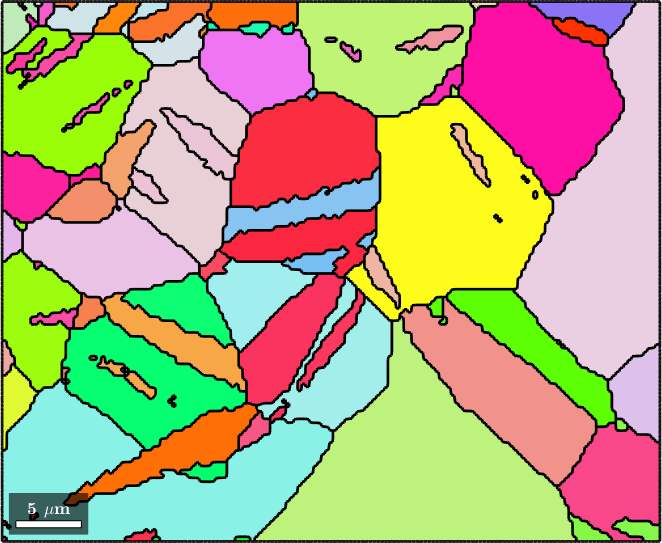
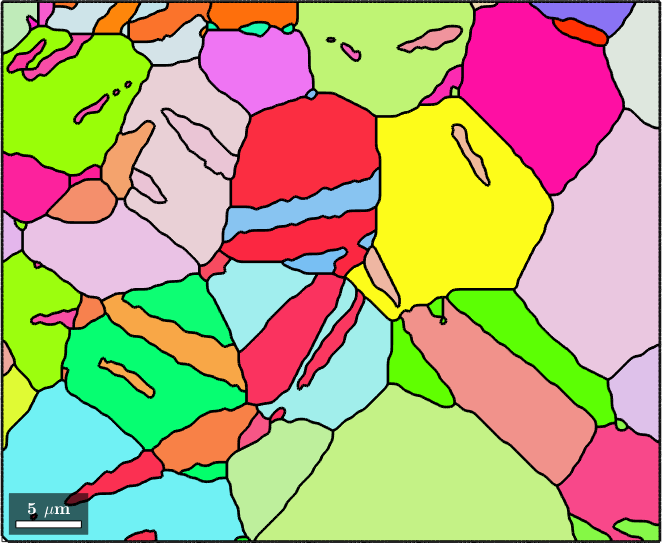
docu

diff --git a/pages/documentation_matlab/BoundaryProperties.html b/pages/documentation_matlab/BoundaryProperties.html
@@ -30,10 +30,11 @@ mtexdata twins silent
 ebsd.prop = rmfield(ebsd.prop,{'error','bands'});
 
 % detect grains
-[grains,ebsd.grainId,ebsd.mis2mean] = calcGrains(ebsd('indexed'));
+[grains,ebsd.grainId,ebsd.mis2mean] = ...
+  calcGrains(ebsd('indexed'),'angle',10*degree,'minPixel',3);
 
 % smooth them
-grains = grains.smooth;
+grains = grains.smooth(5);
 
 % visualize the grains
 plot(grains,grains.meanOrientation)
@@ -139,7 +140,12 @@ hold off
                </p>
          </td>
          <td>
-               <p/>
+               <p>
+                  <tt>triplePoints</tt>
+               </p>
+         </td>
+         <td>
+               <p>list of all triple points</p>
          </td>
       </tr>
       <tr>
@@ -164,18 +170,18 @@ hold off
 </p>
 <p>The first three properties refer to \(N \times 2\) matrices where \(N\) is the number of boundary segments. Each row of these matrices contains the information about the EBSD data, and grain data on both sides of the grain boundary. To illustrate this consider the grain boundary of one specific grain</p>
 {% highlight matlab %}
-gB8 = grains(8).boundary
+gB4 = grains(4).boundary
 {% endhighlight %}
 
 {% highlight plaintext %}
-gB8 = grainBoundary
+gB4 = grainBoundary
  
  Segments  length  mineral 1  mineral 2
-        8    2 µm  Magnesium  Magnesium
+        8  1.3 µm  Magnesium  Magnesium
 {% endhighlight %}
-<p>This boundary consists of 6 segments and hence ebsdId forms a 8x2 matrix</p>
+<p>This boundary consists of 8 segments and hence ebsdId forms a 8x2 matrix</p>
 {% highlight matlab %}
-gB8.ebsdId
+gB4.ebsdId
 {% endhighlight %}
 
 {% highlight plaintext %}
@@ -191,7 +197,7 @@ ans =
 {% endhighlight %}
 <p>It is important to understand that the <b>id</b> is not necessarily the same as the index in the list. In order to index an variable of type EBSD by id and not by index the following syntax has to be used</p>
 {% highlight matlab %}
-ebsd('id',gB8.ebsdId)
+ebsd('id',gB4.ebsdId)
 {% endhighlight %}
 
 {% highlight plaintext %}
@@ -200,15 +206,23 @@ ans = EBSD (y↑→x)
  Phase  Orientations    Mineral         Color  Symmetry  Crystal reference frame
      1     16 (100%)  Magnesium  LightSkyBlue     6/mmm       X||a*, Y||b, Z||c*
  
-        Id   Phase             orientation        bc        bs       mad   grainId               mis2mean
- 1010 1177     1 1   (113.7°,15.5°,219.3°)   164 168   158 171   0.5 0.3      8 21   (217.3°,0.2°,142.9°)
- 1010 1009     1 1   (113.7°,15.5°,219.3°)   164 156   158 160   0.5 0.4      8 21   (217.3°,0.2°,142.9°)
-   843 842     1 1   (115.3°,15.6°,218.2°)   170 167   176 170   0.7 0.5      8 21    (55.9°,0.2°,303.8°)
-   843 676     1 1   (115.3°,15.6°,218.2°)   170 176   176 196   0.7 0.5      8 21    (55.9°,0.2°,303.8°)
-   843 844     1 1   (115.3°,15.6°,218.2°)   170 174   176 197   0.7 0.3      8 21    (55.9°,0.2°,303.8°)
-  1011 844     1 1   (114.7°,15.7°,218.5°)   182 174   174 197   0.5 0.3      8 21    (339.9°,0.1°,20.2°)
- 1011 1012     1 1   (114.7°,15.7°,218.5°)   182 176   174 168   0.5 0.4      8 21    (339.9°,0.1°,20.2°)
- 1011 1178     1 1   (114.7°,15.7°,218.5°)   182 174   174 181   0.5 0.5      8 21    (339.9°,0.1°,20.2°)
+   Id   Phase             orientation    bc    bs   mad   grainId               mis2mean
+ 1010       1   (113.7°,15.5°,219.3°)   164   158   0.5         4   (217.3°,0.2°,142.9°)
+ 1010       1   (113.7°,15.5°,219.3°)   164   158   0.5         4   (217.3°,0.2°,142.9°)
+  843       1   (115.3°,15.6°,218.2°)   170   176   0.7         4    (55.9°,0.2°,303.8°)
+  843       1   (115.3°,15.6°,218.2°)   170   176   0.7         4    (55.9°,0.2°,303.8°)
+  843       1   (115.3°,15.6°,218.2°)   170   176   0.7         4    (55.9°,0.2°,303.8°)
+ 1011       1   (114.7°,15.7°,218.5°)   182   174   0.5         4    (339.9°,0.1°,20.2°)
+ 1011       1   (114.7°,15.7°,218.5°)   182   174   0.5         4    (339.9°,0.1°,20.2°)
+ 1011       1   (114.7°,15.7°,218.5°)   182   174   0.5         4    (339.9°,0.1°,20.2°)
+ 1177       1     (4.5°,80.7°,195.2°)   168   171   0.3        15     (4.8°,0.3°,355.2°)
+ 1009       1     (4.6°,80.7°,195.4°)   156   160   0.4        15    (24.6°,0.3°,335.2°)
+  842       1     (4.9°,80.4°,195.2°)   167   170   0.5        15        (83°,0.5°,277°)
+  676       1     (4.9°,80.4°,195.2°)   176   196   0.5        15        (83°,0.5°,277°)
+  844       1     (4.4°,80.5°,195.1°)   174   197   0.3        15     (359.6°,0.1°,0.5°)
+  844       1     (4.4°,80.5°,195.1°)   174   197   0.3        15     (359.6°,0.1°,0.5°)
+ 1012       1     (4.4°,80.5°,195.2°)   176   168   0.4        15    (14.3°,0.1°,345.8°)
+ 1178       1     (4.7°,80.8°,195.4°)   174   181   0.5        15      (21.9°,0.4°,338°)
  Scan unit : um
  X x Y x Z : [1.8, 2.7] x [1.2, 2.1] x [0, 0]
  Normal vector: (0,0,1)
@@ -216,25 +230,25 @@ ans = EBSD (y↑→x)
 {% endhighlight %}
 <p>Similarly</p>
 {% highlight matlab %}
-gB8.grainId
+gB4.grainId
 {% endhighlight %}
 
 {% highlight plaintext %}
 ans =
-     8    21
-     8    21
-     8    21
-     8    21
-     8    21
-     8    21
-     8    21
-     8    21
+     4    15
+     4    15
+     4    15
+     4    15
+     4    15
+     4    15
+     4    15
+     4    15
 {% endhighlight %}
-<p>results in 9x2 matrix indicating that grain 8 is an inclusion of grain 21.</p>
+<p>results in 8x2 matrix indicating that grain 4 is a tiny inclusion of grain 15.</p>
 {% highlight matlab %}
-plot(grains(8),'FaceColor','DarkBlue','micronbar','off')
+plot(grains(4),'FaceColor','DarkBlue','micronbar','off')
 hold on
-plot(grains(21),'FaceColor','LightCoral')
+plot(grains(15),'FaceColor','LightCoral')
 hold off
 {% endhighlight %}
 <center>
@@ -243,9 +257,9 @@ hold off
 <h2 id="7">Grain boundary misorientations</h2>
 <p>The grain boundary misorientation defined as the misorientation between the orientations corresponding to ids in first and second column of ebsdId, i.e. following two commands should give the same result</p>
 {% highlight matlab %}
-gB8(1).misorientation
+gB4(1).misorientation
 
-inv(ebsd('id',gB8.ebsdId(1,2)).orientations) .* ebsd('id',gB8.ebsdId(1,1)).orientations
+inv(ebsd('id',gB4.ebsdId(1,2)).orientations) .* ebsd('id',gB4.ebsdId(1,1)).orientations
 {% endhighlight %}
 
 {% highlight plaintext %}
@@ -273,7 +287,7 @@ gB_Mg = gB('Magnesium','Magnesium')
 gB_Mg = grainBoundary
  
  Segments  length  mineral 1  mineral 2
-     3219  837 µm  Magnesium  Magnesium
+     3163  724 µm  Magnesium  Magnesium
 {% endhighlight %}
 <p>Then the misorientation angles can be plotted by</p>
 {% highlight matlab %}
@@ -296,7 +310,7 @@ plot(gB_Mg,angle(gB_Mg.direction,axes),'linewidth',4)
 
 {% highlight plaintext %}
 axes = vector3d (y↑→x)
- size: 3219 x 1
+ size: 3163 x 1
  antipodal: true
 {% endhighlight %}
 <center>
@@ -319,21 +333,54 @@ sum(gB_Mg.segLength)
 
 {% highlight plaintext %}
 ans =
-       837.47
+  723.9185
 {% endhighlight %}
 <h2 id="14">Connected components</h2>
-<p>TODO: explain this in more detail</p>
+<p>When analyzing the topology of boundary networks connected components of certain subsets of boundaries are of interest. Using the commands|gB.componentId| and <code class="language-plaintext highlighter-rouge">gB.componentSize</code> we are able to separate the boundary network into groups of connected components and analyze them separately. We do so below at the example of twin boundaries which we first colorize according to length.</p>
 {% highlight matlab %}
-components = unique(gB.componentId);
-for cId = components.'
-  plot(gB(gB.componentId == cId),'lineColor',ind2color(cId),...
-    'micronbar','off','lineWidth',4,'displayName',num2str(cId))
-  hold on
-end
+CS = ebsd.CS;
+twinning = orientation.map(Miller(1,-1,0,1,CS),Miller(1,0,-1,-1,CS),...
+  Miller(0,1,-1,1,CS,'uvw'),Miller(1,-1,0,1,CS,'uvw'))
+
+gBTwin = gB(gB.isTwinning(twinning));
+
+plot(grains,grains.meanOrientation,'faceAlpha',0.25)
+
+hold on
+plot(gBTwin,gBTwin.componentSize,'lineWidth',4)
 hold off
+mtexColorbar
+{% endhighlight %}
+
+{% highlight plaintext %}
+twinning = misorientation (Magnesium → Magnesium)
+ 
+ (10-1-1) || (01-11)   [01-11] || [1-101]
 {% endhighlight %}
 <center>
 {% include inline_image.html file="BoundaryProperties_06.png" %}
+</center>
+<p>Next we compute how curvy each twin boundary component is, by dividing it spatial extension by its total length. This measure has proven to be useful to tell apart misindexing due to pseudosymmetries and true twin boundaries.</p>
+{% highlight matlab %}
+numComponents = max(gBTwin.componentId);
+xmax = accumarray(gBTwin.componentId,gBTwin.midPoint.x,[numComponents,1],@max);
+ymax = accumarray(gBTwin.componentId,gBTwin.midPoint.y,[numComponents,1],@max);
+xmin = accumarray(gBTwin.componentId,gBTwin.midPoint.x,[numComponents,1],@min);
+ymin = accumarray(gBTwin.componentId,gBTwin.midPoint.y,[numComponents,1],@min);
+
+ext = sqrt((xmax-xmin).^2+(ymax-ymin).^2);
+len = accumarray(gBTwin.componentId,gBTwin.segLength,[numComponents,1],@sum);
+value = ext ./ len;
+
+plot(grains,grains.meanOrientation,'faceAlpha',0.25)
+hold on
+plot(gBTwin,value(gBTwin.componentId),'lineWidth',4)
+hold off
+mtexColorbar
+mtexColorMap blue2red
+{% endhighlight %}
+<center>
+{% include inline_image.html file="BoundaryProperties_07.png" %}
 </center>
 </div>
 </body>

diff --git a/pages/documentation_matlab/SO3FunOperations.html b/pages/documentation_matlab/SO3FunOperations.html
@@ -128,9 +128,9 @@ g = SO3FunRBF (y↑→x → Quartz)
   weight: 1
  
 ans =
-    2.3745
+       2.3745
 ans =
-    4.2858
+       4.2858
 {% endhighlight %}
 <h2 id="7">Local Extrema</h2>
 <p>The above mentioned functions <a href="SO3Fun.min.html"><code class="language-plaintext highlighter-rouge">min</code></a> and <a href="SO3Fun.max.html"><code class="language-plaintext highlighter-rouge">max</code></a> have very different use cases</p>
@@ -152,8 +152,8 @@ annotate(maxNodes)
 
 {% highlight plaintext %}
 maxValue =
-  260.2697
-  212.3075
+       260.27
+       212.31
  
 maxNodes = orientation (Quartz → y↑→x)
   size: 2 x 1
@@ -189,7 +189,7 @@ sqrt(mean(abs(SO3F1).^2))
 
 {% highlight plaintext %}
 ans =
-    3.7736
+       3.7736
 {% endhighlight %}
 <p>or more efficiently by the command <a href="SO3Fun.norm.html"><code class="language-plaintext highlighter-rouge">norm</code></a>
 </p>
@@ -199,21 +199,25 @@ norm(SO3F1)
 
 {% highlight plaintext %}
 ans =
-    3.7730
+        3.773
 {% endhighlight %}
 <h2 id="11">Differentiation</h2>
-<p>The gradient of a \(SO(3)\) function in a specific point can be described by a <a href="vector3d.vector3d.html">three-dimensional vector</a> which can be computed by the command <a href="SO3Fun.grad.html"><code class="language-plaintext highlighter-rouge">grad</code></a>
+<p>The gradient of an \(SO(3)\) function in a specific point is described by a <a href="SO3TangentVector.SO3TangentVector.html">SO3TangentVector</a>-object, which can be computed by the command <a href="SO3Fun.grad.html"><code class="language-plaintext highlighter-rouge">grad</code></a>
 </p>
 {% highlight matlab %}
 grad(SO3F1,R)
 {% endhighlight %}
 
 {% highlight plaintext %}
-ans = SO3TangentVector
+ans = SO3TangentVector (y↑→x)
+ intern symmetries: Quartz → y↑→x
  TagentSpace: leftVector
         x        y        z
   10.1343 -26.5867 -3.26427
 {% endhighlight %}
+<p>This <code class="language-plaintext highlighter-rouge">SO3TangentVector</code> describes an element of a tangent space on the rotation group \(SO(3)\) at some specific rotation.</p>
+<p>For detailed information on this tangent space representation, see <a href="RotationTangentSpace.html">Tangent Space Representation on SO(3)</a>
+</p>
 <p>The gradients of a \(SO(3)\) function in all points form a \(SO(3)\) vector field and are returned by the function <a href="SO3Fun.grad.html"><code class="language-plaintext highlighter-rouge">grad</code></a> as a variable of type <a href="SO3VectorFieldHarmonic.SO3VectorFieldHarmonic.html">SO3VectorFieldHarmonic</a>.</p>
 {% highlight matlab %}
 % compute the gradient as a vector field
@@ -235,7 +239,8 @@ G = SO3VectorFieldHarmonic (Quartz → y↑→x)
 {% include inline_image.html file="SO3FunOperations_07.png" %}
 </center>
 <p>We observe long arrows at the positions of big changes in intensity and almost invisible arrows in regions of constant intensity.</p>
-<h2 id="14">Rotating orientation dependent functions</h2>
+<p>Note that, roughly speaking, the gradient at a given rotation indicates the direction of steepest ascent of <code class="language-plaintext highlighter-rouge">SO3F1</code>. In the above plot, this gradient is represented by an arrow pointing along that direction. By following this arrow via the exponential map, one obtains a new rotation.</p>
+<h2 id="15">Rotating orientation dependent functions</h2>
 <p>Rotating an orientation dependent function works with the command <a href="SO3Fun.rotate.html"><code class="language-plaintext highlighter-rouge">rotate</code></a>
 </p>
 {% highlight matlab %}

diff --git a/pages/documentation_matlab/ClusterDemo.html b/pages/documentation_matlab/ClusterDemo.html
@@ -145,8 +145,6 @@ end
 r = vector3d (y↑→x)
  size: 2000 x 1
  antipodal: true
-Warning: ward's linkage specified with non-Euclidean
-dissimilarity matrix.
 {% endhighlight %}
 
 {% highlight matlab %}
